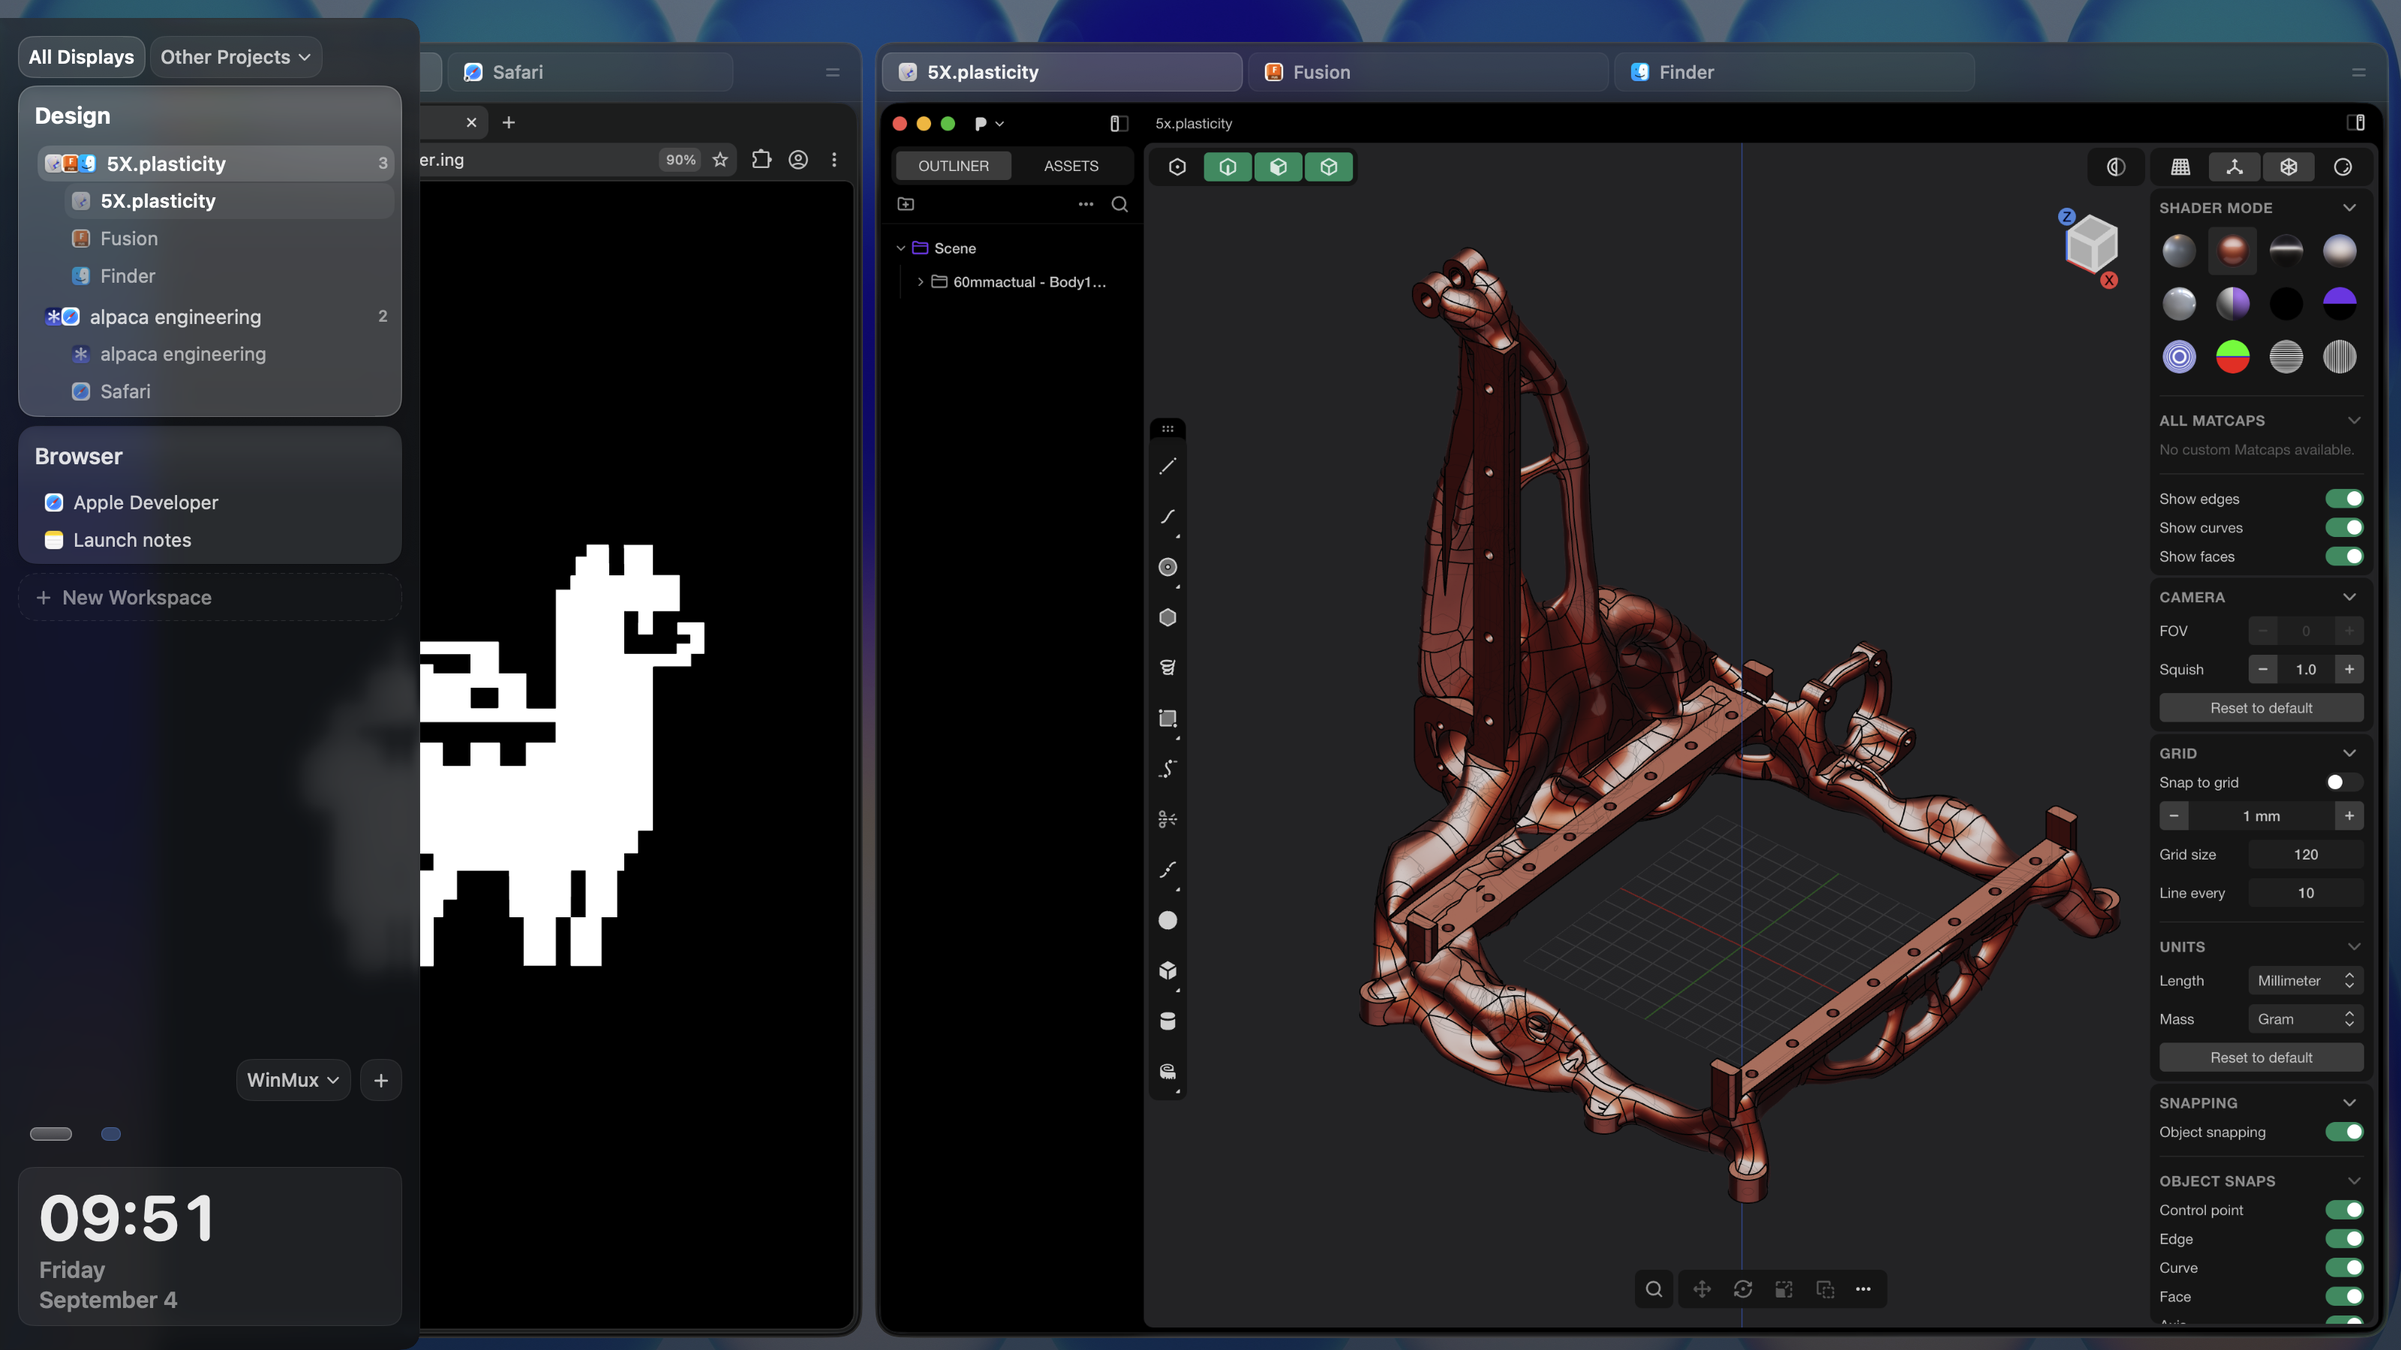
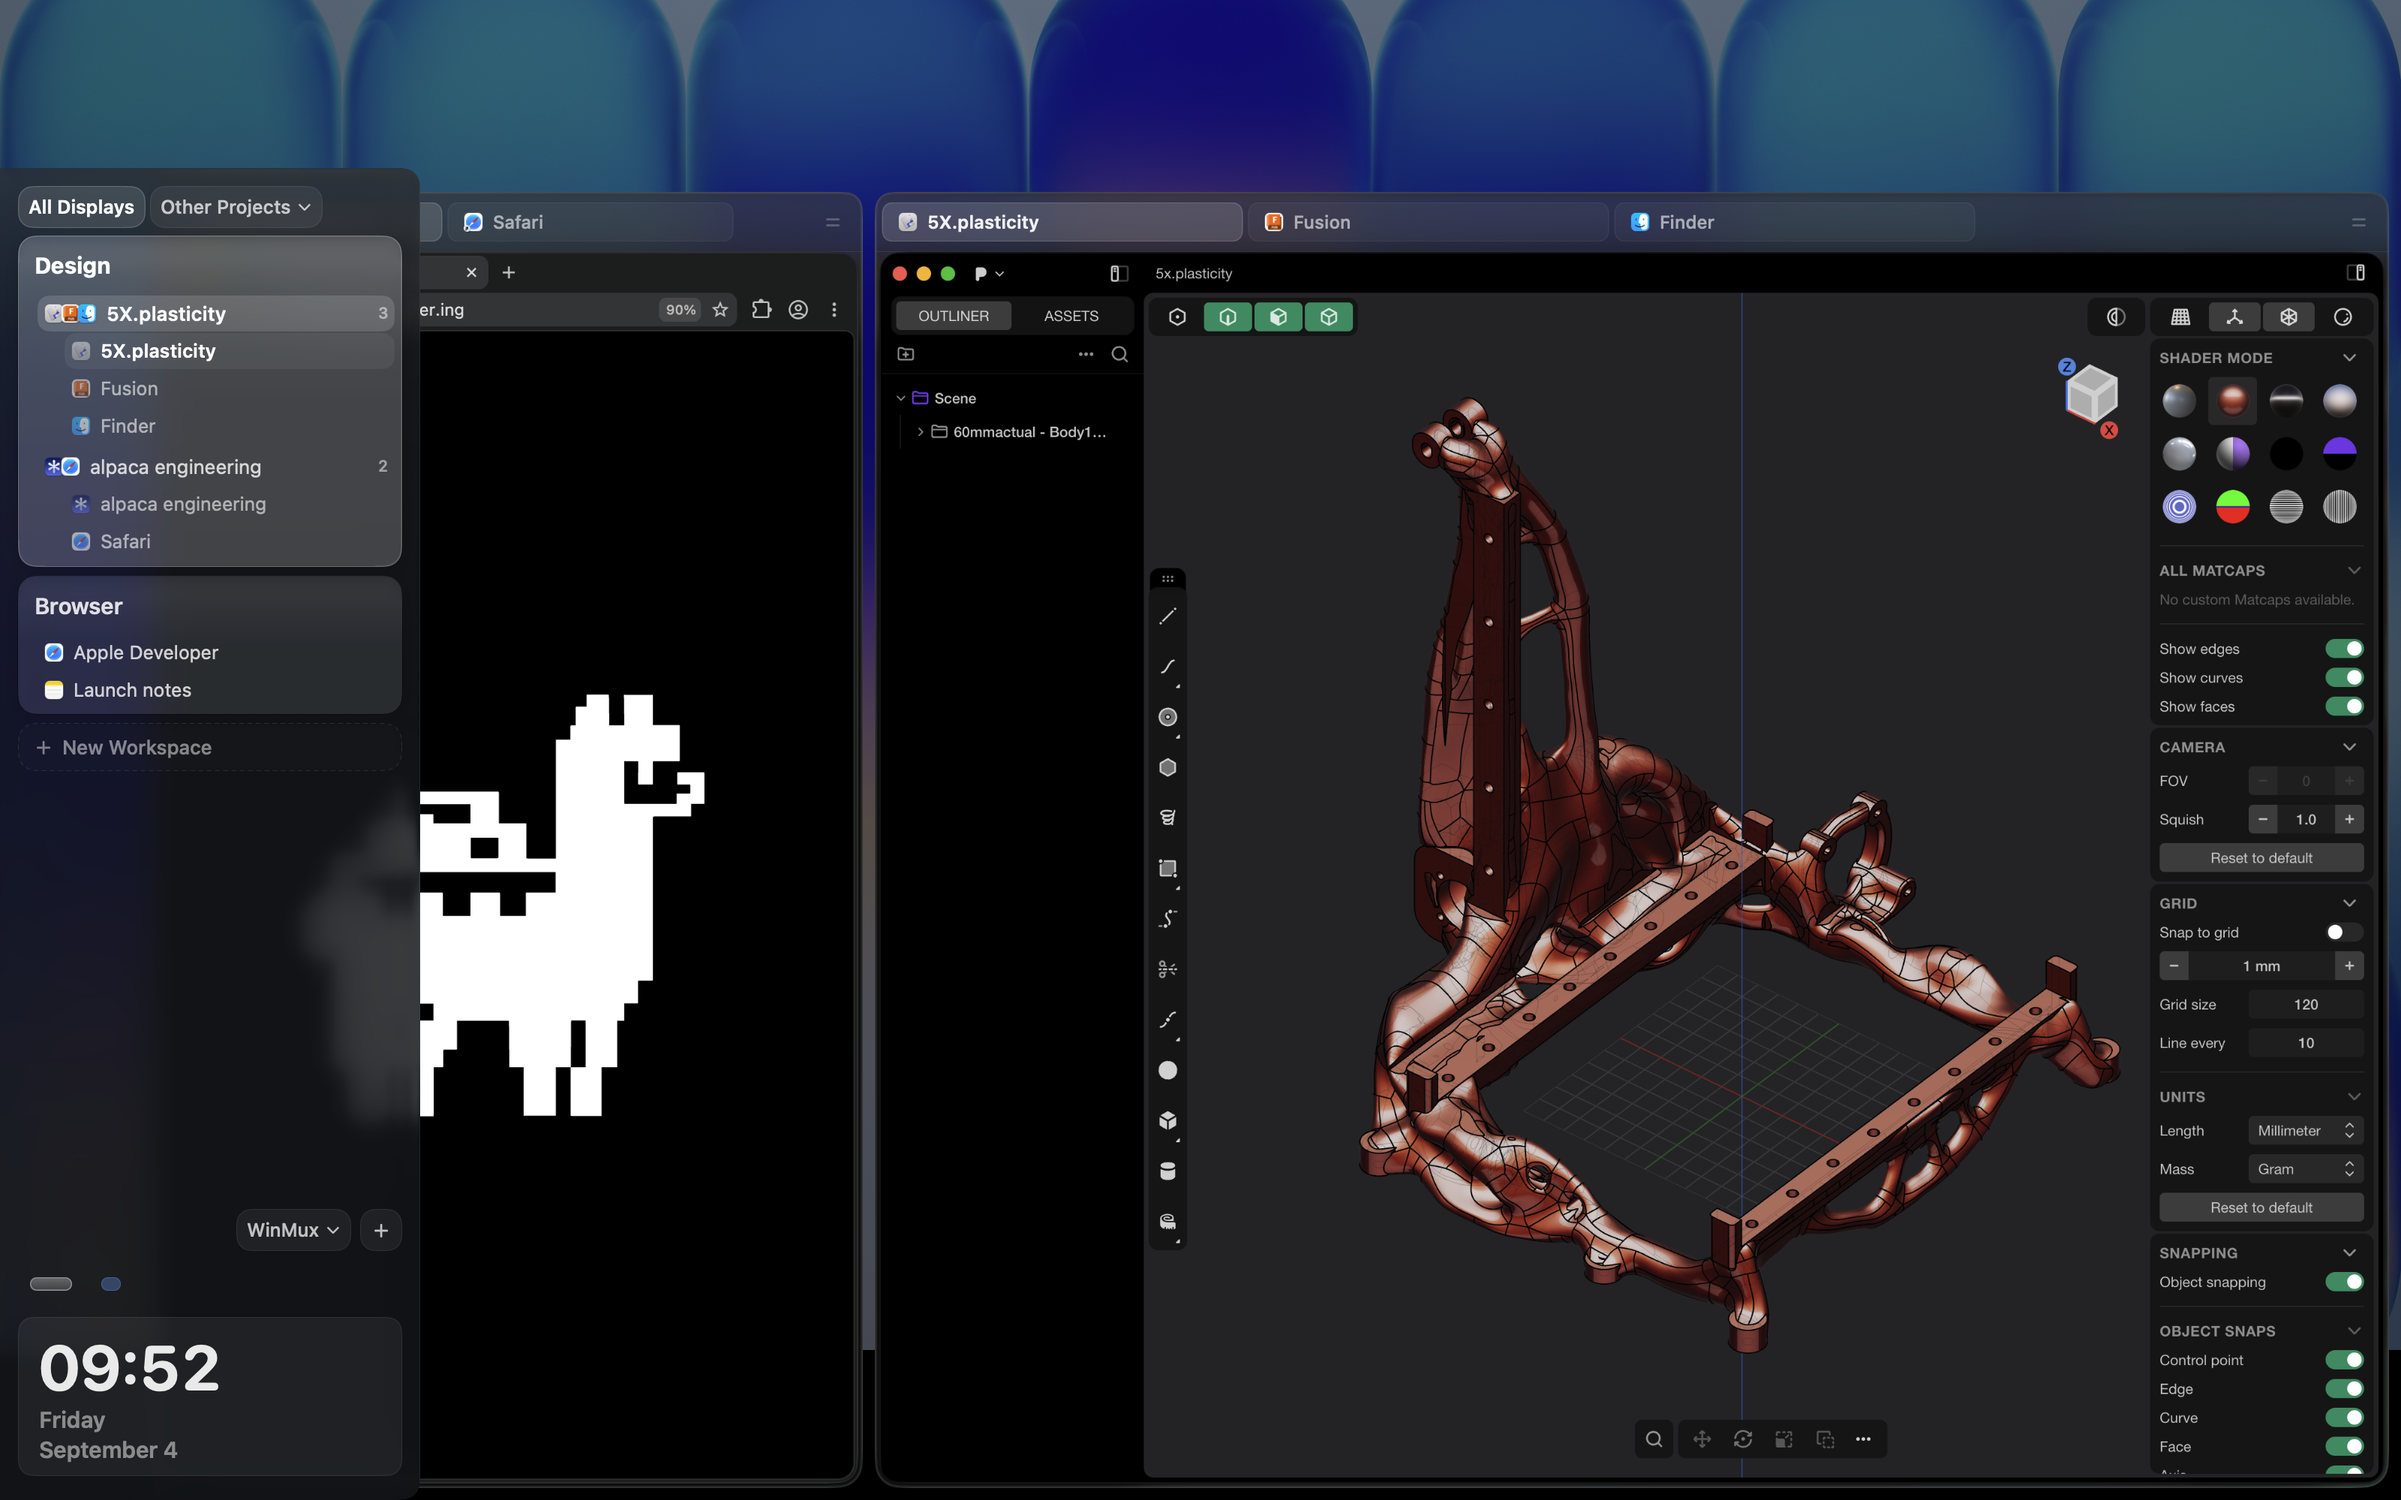
Add headroom above marketing workspace without resizing windows

diff --git a/Sources/AppBundle/ui/marketing/WinMuxMarketingRenderer.swift b/Sources/AppBundle/ui/marketing/WinMuxMarketingRenderer.swift
@@ -23,12 +23,19 @@ public func renderWinMuxAppsProofImage(to outputURL: URL) throws {
 /// Exports a tiled Safari and Plasticity workspace using their measured split ratio.
 @MainActor
 public func renderWinMuxSafariPlasticityProofImage(to outputURL: URL) throws {
-    try renderMarketingView(WinMuxSafariPlasticityProofCanvas(), to: outputURL)
+    try renderMarketingView(
+        WinMuxSafariPlasticityProofCanvas(),
+        to: outputURL,
+        size: CGSize(width: 1_600, height: 1_000)
+    )
 }
 
 @MainActor
-private func renderMarketingView<Content: View>(_ rootView: Content, to outputURL: URL) throws {
-    let size = CGSize(width: 1_600, height: 900)
+private func renderMarketingView<Content: View>(
+    _ rootView: Content,
+    to outputURL: URL,
+    size: CGSize = CGSize(width: 1_600, height: 900)
+) throws {
     let content = rootView
         .frame(width: size.width, height: size.height)
         .environment(\.colorScheme, .dark)
@@ -179,10 +186,11 @@ private struct WinMuxAppsProofCanvas: View {
 }
 
 private struct WinMuxSafariPlasticityProofCanvas: View {
+    private let canvasHeight: CGFloat = 1_000
     private let sidebarWidth: CGFloat = 280
     private let reservedSidebarWidth: CGFloat = 50
-    private let topMargin: CGFloat = 28
-    private let sidebarTopMargin: CGFloat = 12
+    private let topMargin: CGFloat = 128
+    private let sidebarTopMargin: CGFloat = 112
     private let gutter: CGFloat = 8
     // Expansion overlays the tiles; only the collapsed rail reserves layout space.
     private var safariAspect: CGFloat { captureAspect("helium-current-retina.png") }
@@ -191,7 +199,7 @@ private struct WinMuxSafariPlasticityProofCanvas: View {
         min(
             (1_600 - reservedSidebarWidth - 3 * gutter - 4 * windowTabGroupShellHorizontalInset())
                 / (safariAspect + plasticityAspect),
-            900 - topMargin - gutter - chromeHeight
+            canvasHeight - topMargin - gutter - chromeHeight
         )
     }
     private var safariWidth: CGFloat { contentHeight * safariAspect + 2 * windowTabGroupShellHorizontalInset() }
@@ -245,11 +253,11 @@ private struct WinMuxSafariPlasticityProofCanvas: View {
             .offset(x: tilesLeading + gutter + safariWidth, y: topMargin)
 
         }
-        .frame(width: 1_600, height: 900)
+        .frame(width: 1_600, height: canvasHeight)
         .overlay(alignment: .topLeading) {
             let sidebar = WorkspaceSidebarView(snapshot: MarketingFixtures.sidebarSnapshot)
             sidebar
-                .frame(width: sidebarWidth, height: 900 - sidebarTopMargin)
+                .frame(width: sidebarWidth, height: canvasHeight - sidebarTopMargin)
                 .background(
                     Color(red: 0.012, green: 0.045, blue: 0.115).opacity(0.50),
                     in: sidebar.sidebarShape
